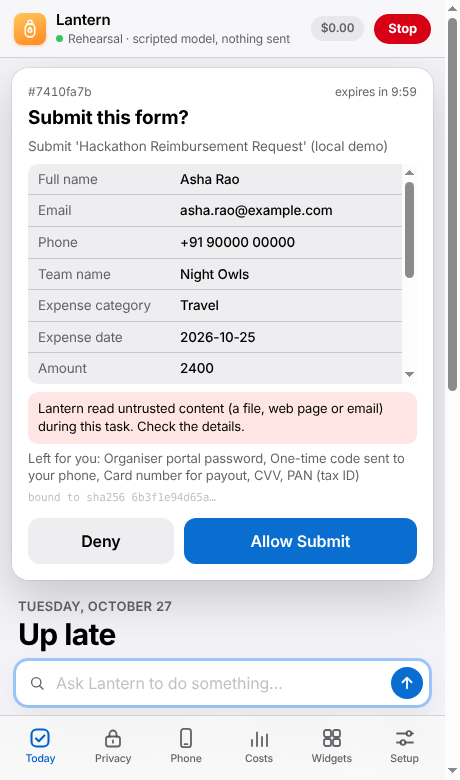
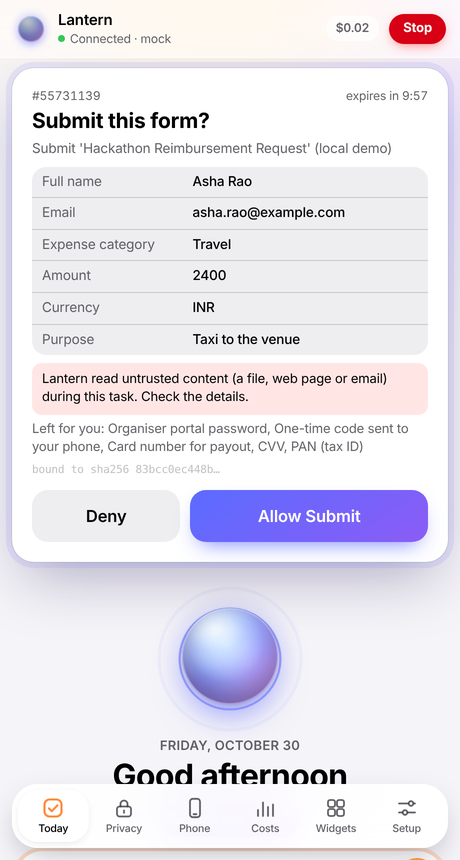
Desktop: the panel opens on Lantern's live orb, with a glass, calmer look
Today shows the large orb, the greeting and a line under it saying what Lantern is doing right
now; the toolbar mark is a small live orb. Glass cards and ask field, rounded numbers, a
floating tab bar, a clearer approval card. Orb styles are shared (renderer/orb.css) and built
with DOM calls (no innerHTML). Light and dark; screenshots updated.

Claude-Session: https://claude.ai/code/session_01KeASn7FfptgKrH1e6GmtJU

diff --git a/desktop/renderer/panel.css b/desktop/renderer/panel.css
@@ -364,3 +364,87 @@ kbd { font: 600 12px var(--font); color: var(--label-2); padding: 3px 8px; borde
 .decoy-pair figure { margin: 0; background: var(--card); }
 .decoy-pair img { display: block; width: 100%; height: auto; }
 .decoy-pair figcaption { padding: 6px 10px; font-size: 12.5px; color: var(--label-2); }
+
+/* ==== Lantern 2: the orb at the centre, glass, light and calm =====================================
+   One idea per screen; Lantern itself (the orb) is the place you look to know what is happening, with a
+   line under it saying what it's doing. Materials are translucent; corners are generous; numbers are rounded. */
+:root { --round: ui-rounded, "SF Pro Rounded", var(--font); --r-lg: 22px; --r-md: 16px;
+        --wash: radial-gradient(120% 60% at 50% -10%, #fff1dc 0%, rgba(255, 241, 220, 0) 60%),
+                radial-gradient(80% 50% at 100% 10%, #efe7ff 0%, rgba(239, 231, 255, 0) 60%), #f5f4f8;
+        --glass: rgba(255, 255, 255, .62); --glass-edge: rgba(255, 255, 255, .7);
+        --lift: 0 1px 1px rgba(30, 20, 60, .04), 0 10px 30px -8px rgba(30, 20, 60, .14); }
+@media (prefers-color-scheme: dark) {
+  :root { --wash: radial-gradient(120% 60% at 50% -10%, #3a2412 0%, rgba(58, 36, 18, 0) 60%),
+                  radial-gradient(80% 50% at 100% 10%, #241a3d 0%, rgba(36, 26, 61, 0) 60%), #0b0a10;
+          --glass: rgba(40, 38, 48, .6); --glass-edge: rgba(255, 255, 255, .08);
+          --lift: 0 0 0 .5px rgba(255, 255, 255, .07), 0 14px 34px -10px rgba(0, 0, 0, .6); }
+}
+html, body { background: var(--wash); background-attachment: fixed; }
+body { padding-bottom: 104px; }
+
+/* toolbar: glass, with Lantern's small orb as its mark */
+.toolbar { background: color-mix(in srgb, var(--glass) 90%, transparent); border-bottom: .5px solid var(--glass-edge);
+           backdrop-filter: saturate(180%) blur(24px); -webkit-backdrop-filter: saturate(180%) blur(24px); }
+.sprite.mini { --size: 26px; width: 34px; height: 34px; cursor: default; }
+.sprite.mini:hover, .sprite.mini:active { transform: none; }
+.sprite.mini .halo { filter: blur(3px); }
+.sprite.mini .flow { filter: blur(4px) saturate(1.3); }
+.sprite.mini .ring, .sprite.mini .sat { display: none; }
+.sprite.mini .sphere { box-shadow: 0 4px 10px -3px color-mix(in srgb, var(--glow) 80%, transparent); animation: none; }
+.capsule { background: var(--glass); box-shadow: inset 0 0 0 .5px var(--glass-edge); }
+.stop { box-shadow: 0 4px 12px -4px color-mix(in srgb, var(--red) 70%, transparent); }
+
+/* Today: Lantern in the middle, a greeting, and a line under it saying what it's doing right now */
+.hero-lantern { display: flex; flex-direction: column; align-items: center; text-align: center; padding: 22px 0 14px; }
+.sprite.hero-orb { --size: 96px; width: 170px; height: 150px; margin-bottom: 2px; cursor: default; }
+.sprite.hero-orb:hover, .sprite.hero-orb:active { transform: none; }
+.sprite.hero-orb .sat { --orbit: 62px; }
+.hero-lantern .eyebrow { margin-top: 2px; }
+.hero-lantern h1 { margin: 0; font: 700 32px/1.1 var(--round); letter-spacing: -.02em; }
+.hero-status { margin: 10px 0 0; max-width: 92%; padding: 7px 14px; border-radius: 99px; font-size: 14px; font-weight: 500;
+               color: var(--label-2); background: var(--glass); box-shadow: inset 0 0 0 .5px var(--glass-edge), var(--lift);
+               white-space: nowrap; overflow: hidden; text-overflow: ellipsis; transition: color .3s; }
+.hero-status[data-mode="working"], .hero-status[data-mode="retry"] { color: var(--label); }
+.hero-status[data-mode="working"]::before { content: ""; display: inline-block; width: 7px; height: 7px; margin-right: 8px; vertical-align: 1px;
+               border-radius: 50%; background: var(--orange); animation: blink 1.2s ease-in-out infinite; }
+.hero-status[data-mode="approval"] { color: #fff; background: linear-gradient(135deg, #6d7bff, #a86bff); }
+.hero-status[data-mode="done"] { color: var(--green-text); }
+.hero-status[data-mode="failed"], .hero-status[data-mode="stopped"] { color: var(--red-text); }
+@keyframes blink { 50% { opacity: .25; } }
+
+/* the ask field: the one big thing to type into */
+.ask { height: 54px; border-radius: 27px; padding: 0 7px 0 18px; background: var(--glass);
+       box-shadow: inset 0 0 0 .5px var(--glass-edge), var(--lift); backdrop-filter: blur(20px); -webkit-backdrop-filter: blur(20px); }
+.ask:focus-within { background: var(--card); box-shadow: 0 0 0 4px color-mix(in srgb, #ff9f43 28%, transparent), var(--lift); }
+.ask input { font-size: 16.5px; }
+.send { width: 40px; height: 40px; background: linear-gradient(145deg, #ffb347, #ff6b5a); box-shadow: 0 6px 14px -6px rgba(255, 107, 90, .9); }
+.chip-s { background: var(--glass); box-shadow: inset 0 0 0 .5px var(--glass-edge), 0 1px 2px rgba(0, 0, 0, .04); }
+
+/* at a glance: rounded numbers in soft cards */
+.glance { gap: 12px; margin-top: 16px; }
+.tile { border-radius: var(--r-md); background: var(--glass); box-shadow: inset 0 0 0 .5px var(--glass-edge), var(--lift); padding: 14px 16px; }
+.tile .t-value { font: 700 30px/1.15 var(--round); letter-spacing: -.02em; }
+.tile .t-label::before { width: 9px; height: 9px; box-shadow: 0 0 8px currentColor; }
+
+/* cards and groups */
+.group, .task, .interrupted { border-radius: var(--r-md); background: var(--glass); box-shadow: inset 0 0 0 .5px var(--glass-edge), var(--lift);
+                              backdrop-filter: blur(18px); -webkit-backdrop-filter: blur(18px); }
+.large-title h1 { font-family: var(--round); font-size: 32px; }
+.task .reply { border-radius: 18px 18px 18px 6px; background: color-mix(in srgb, #ffb347 12%, var(--card)); }
+
+/* approvals: a clear decision, never a banner to click away */
+.approval { border-radius: var(--r-lg); padding: 20px; background: var(--card);
+            box-shadow: 0 0 0 .5px var(--separator), 0 0 0 6px color-mix(in srgb, #7c83ff 14%, transparent), 0 24px 60px -12px rgba(40, 30, 90, .35); }
+.approval h3 { font: 700 21px/1.2 var(--round); }
+.approval .fields { border-radius: 14px; }
+.approval .deny, .approval .allow { height: 52px; border-radius: 16px; font-size: 16.5px; }
+.approval .allow { background: linear-gradient(145deg, #5b6cff, #8b5cf6); box-shadow: 0 10px 22px -10px rgba(91, 108, 255, .9); }
+
+/* the tab bar floats: a glass capsule above the window's bottom edge */
+.tabs { left: 12px; right: 12px; bottom: 12px; padding: 6px; border-radius: 26px; border: 0;
+        background: color-mix(in srgb, var(--card) 92%, transparent); box-shadow: inset 0 0 0 .5px var(--glass-edge), 0 12px 32px -10px rgba(20, 10, 40, .35);
+        backdrop-filter: saturate(180%) blur(26px); -webkit-backdrop-filter: saturate(180%) blur(26px); }
+.tabs button { border-radius: 20px; padding: 6px 0; transition: background .25s var(--spring), color .25s; }
+.tabs button.on { color: var(--label); background: color-mix(in srgb, var(--card) 85%, transparent); box-shadow: 0 2px 8px -2px rgba(0, 0, 0, .12); }
+.tabs button.on .ico { color: #ff8a3d; }
+.toast { bottom: 100px; }

diff --git a/desktop/renderer/avatar.css b/desktop/renderer/avatar.css
@@ -3,84 +3,6 @@ body { font: 13px/1.35 -apple-system, BlinkMacSystemFont, "SF Pro Text", "Segoe 
        -webkit-font-smoothing: antialiased; letter-spacing: -.01em; }
 .stage { position: absolute; inset: 0; display: flex; flex-direction: column; align-items: center; justify-content: flex-end; padding-bottom: 8px; gap: 10px; }
 
-/* ---- the orb ----
-   A glass sphere with three lights drifting inside it. Colour and speed follow Lantern's state (lib/sprite.js
-   sets --a/--b/--c/--glow/--spin); @property lets the colours glide from one state to the next. */
-@property --a { syntax: '<color>'; inherits: true; initial-value: #ffd479; }
-@property --b { syntax: '<color>'; inherits: true; initial-value: #ff9f43; }
-@property --c { syntax: '<color>'; inherits: true; initial-value: #ff6b6b; }
-@property --glow { syntax: '<color>'; inherits: true; initial-value: #ffb347; }
-
-.sprite { --size: 104px; position: relative; width: 150px; height: 150px; flex: none; cursor: pointer;
-          display: grid; place-items: center; outline: none;
-          transition: --a .9s ease, --b .9s ease, --c .9s ease, --glow .9s ease, transform .35s cubic-bezier(.32, 1.4, .5, 1); }
-.sprite:hover { transform: scale(1.05); }
-.sprite:active { transform: scale(.96); }
-.sprite:focus-visible .sphere { box-shadow: 0 0 0 3px #fff, 0 0 0 6px var(--b); }
-
-.sprite .halo { position: absolute; width: calc(var(--size) * 1.55); height: calc(var(--size) * 1.55); border-radius: 50%;
-  background: radial-gradient(circle, color-mix(in srgb, var(--glow) 55%, transparent) 0%, transparent 62%);
-  filter: blur(6px); animation: breathe 5s ease-in-out infinite; pointer-events: none; }
-
-.sprite .sphere { position: relative; width: var(--size); height: var(--size); border-radius: 50%; overflow: hidden;
-  isolation: isolate; animation: float 6s ease-in-out infinite;
-  background: radial-gradient(circle at 50% 72%, var(--b) 0%, color-mix(in srgb, var(--c) 78%, #2a1240) 100%);
-  box-shadow: 0 18px 36px -10px color-mix(in srgb, var(--glow) 70%, transparent),
-              0 2px 6px rgba(0, 0, 0, .18); }
-
-/* the light inside: three soft blobs on slow, different orbits, added together like light */
-.sprite .flow { position: absolute; inset: -30%; border-radius: 50%; mix-blend-mode: screen; filter: blur(13px) saturate(1.3); }
-.sprite .f1 { background: radial-gradient(circle at 30% 35%, var(--a) 0%, transparent 42%);
-              animation: swirl var(--spin) linear infinite; }
-.sprite .f2 { background: radial-gradient(circle at 68% 60%, var(--b) 0%, transparent 46%);
-              animation: swirl calc(var(--spin) * .72) linear infinite reverse; }
-.sprite .f3 { background: radial-gradient(circle at 45% 78%, var(--c) 0%, transparent 40%);
-              animation: swirl calc(var(--spin) * 1.35) linear infinite; opacity: .9; }
-
-/* the glass: a bright highlight top-left, a darker rim at the bottom, a hairline edge */
-.sprite .sheen { position: absolute; inset: 0; border-radius: 50%; pointer-events: none;
-  background: radial-gradient(ellipse 46% 34% at 34% 22%, rgba(255, 255, 255, .78) 0%, rgba(255, 255, 255, .12) 55%, transparent 72%),
-              radial-gradient(circle at 50% 120%, rgba(255, 255, 255, .28) 0%, transparent 45%);
-  box-shadow: inset 0 0 0 1px rgba(255, 255, 255, .35), inset 0 -14px 26px rgba(10, 4, 24, .38),
-              inset 0 8px 18px rgba(255, 255, 255, .22); }
-
-/* rings: a calm pulse while Lantern waits for your OK, a burst when a task is done and checked */
-.sprite .ring { position: absolute; width: var(--size); height: var(--size); border-radius: 50%; pointer-events: none;
-  border: 2px solid var(--b); opacity: 0; }
-.sprite.needs-approval .ring { animation: pulse 2.2s cubic-bezier(.2, .7, .3, 1) infinite; }
-.sprite.needs-approval .ring.r2 { animation-delay: 1.1s; }
-.sprite.celebrating .ring { animation: burst 1.1s cubic-bezier(.2, .7, .3, 1) 2; }
-.sprite.celebrating .ring.r2 { animation-delay: .25s; }
-
-/* more than one task in flight: small lights orbit the sphere */
-.sprite .sat { position: absolute; width: 9px; height: 9px; border-radius: 50%; opacity: 0; pointer-events: none;
-  background: radial-gradient(circle at 35% 35%, #fff, var(--a) 60%); box-shadow: 0 0 10px var(--glow);
-  transition: opacity .5s; }
-.sprite.juggling .sat { opacity: 1; animation: orbit 2.4s linear infinite; }
-.sprite.juggling .s2 { animation-delay: -.8s; }
-.sprite.juggling .s3 { animation-delay: -1.6s; }
-
-/* per-state motion on top of the colours */
-.sprite.thinking .sphere, .sprite.juggling .sphere { animation: float 6s ease-in-out infinite, think 1.6s ease-in-out infinite; }
-.sprite.thinking .halo, .sprite.juggling .halo { animation-duration: 1.6s; }
-.sprite.celebrating .sphere { animation: hop .7s cubic-bezier(.32, 1.4, .5, 1) 2, float 6s ease-in-out 1.4s infinite; }
-.sprite.annoyed .sphere { animation: shake .4s ease-in-out 2, float 6s ease-in-out .8s infinite; }
-.sprite.smug .sheen { animation: glint 2.8s ease-in-out 1; }
-.sprite.sleeping { filter: saturate(.55) brightness(.92); }
-.sprite.sleeping .halo { animation-duration: 9s; opacity: .55; }
-.sprite.sleeping .sphere { animation-duration: 10s; }
-
-@keyframes swirl { to { transform: rotate(360deg); } }
-@keyframes float { 0%, 100% { transform: translateY(0); } 50% { transform: translateY(-5px); } }
-@keyframes breathe { 0%, 100% { transform: scale(.92); opacity: .75; } 50% { transform: scale(1.06); opacity: 1; } }
-@keyframes think { 0%, 100% { scale: 1; } 50% { scale: 1.035; } }
-@keyframes pulse { 0% { transform: scale(1); opacity: .75; } 100% { transform: scale(1.55); opacity: 0; } }
-@keyframes burst { 0% { transform: scale(1); opacity: .95; border-width: 3px; } 100% { transform: scale(1.8); opacity: 0; border-width: 1px; } }
-@keyframes orbit { from { transform: rotate(0deg) translateX(66px) rotate(0deg); } to { transform: rotate(360deg) translateX(66px) rotate(-360deg); } }
-@keyframes hop { 0%, 100% { transform: translateY(0) scale(1); } 35% { transform: translateY(-16px) scale(1.04, .97); } 60% { transform: translateY(0) scale(.97, 1.03); } }
-@keyframes shake { 0%, 100% { transform: translateX(0); } 25% { transform: translateX(-6px); } 75% { transform: translateX(6px); } }
-@keyframes glint { 0%, 100% { filter: brightness(1); } 40% { filter: brightness(1.5); } }
-
 /* ---- the live activity island ---- */
 .island {
   --spring: cubic-bezier(.32, 1.4, .5, 1);

diff --git a/desktop/renderer/orb.css b/desktop/renderer/orb.css
@@ -1,0 +1,82 @@
+/* Lantern's orb, shared by the avatar window and the panel. Markup and palettes: lib/sprite.js. */
+/* ---- the orb ----
+   A glass sphere with three lights drifting inside it. Colour and speed follow Lantern's state (lib/sprite.js
+   sets --a/--b/--c/--glow/--spin); @property lets the colours glide from one state to the next. */
+@property --a { syntax: '<color>'; inherits: true; initial-value: #ffd479; }
+@property --b { syntax: '<color>'; inherits: true; initial-value: #ff9f43; }
+@property --c { syntax: '<color>'; inherits: true; initial-value: #ff6b6b; }
+@property --glow { syntax: '<color>'; inherits: true; initial-value: #ffb347; }
+
+.sprite { --size: 104px; position: relative; width: 150px; height: 150px; flex: none; cursor: pointer;
+          display: grid; place-items: center; outline: none;
+          transition: --a .9s ease, --b .9s ease, --c .9s ease, --glow .9s ease, transform .35s cubic-bezier(.32, 1.4, .5, 1); }
+.sprite:hover { transform: scale(1.05); }
+.sprite:active { transform: scale(.96); }
+.sprite:focus-visible .sphere { box-shadow: 0 0 0 3px #fff, 0 0 0 6px var(--b); }
+
+.sprite .halo { position: absolute; width: calc(var(--size) * 1.55); height: calc(var(--size) * 1.55); border-radius: 50%;
+  background: radial-gradient(circle, color-mix(in srgb, var(--glow) 55%, transparent) 0%, transparent 62%);
+  filter: blur(6px); animation: breathe 5s ease-in-out infinite; pointer-events: none; }
+
+.sprite .sphere { position: relative; width: var(--size); height: var(--size); border-radius: 50%; overflow: hidden;
+  isolation: isolate; animation: float 6s ease-in-out infinite;
+  background: radial-gradient(circle at 46% 38%, var(--a) 0%, var(--b) 48%, color-mix(in srgb, var(--c) 88%, #3d1650) 100%);
+  box-shadow: 0 18px 36px -10px color-mix(in srgb, var(--glow) 70%, transparent),
+              0 2px 6px rgba(0, 0, 0, .18); }
+
+/* the light inside: three soft blobs on slow, different orbits, added together like light */
+.sprite .flow { position: absolute; inset: -30%; border-radius: 50%; mix-blend-mode: screen; filter: blur(13px) saturate(1.3); }
+.sprite .f1 { background: radial-gradient(circle at 30% 35%, var(--a) 0%, transparent 42%);
+              animation: swirl var(--spin) linear infinite; }
+.sprite .f2 { background: radial-gradient(circle at 68% 60%, var(--b) 0%, transparent 46%);
+              animation: swirl calc(var(--spin) * .72) linear infinite reverse; }
+.sprite .f3 { background: radial-gradient(circle at 45% 78%, var(--c) 0%, transparent 40%);
+              animation: swirl calc(var(--spin) * 1.35) linear infinite; opacity: .9; }
+
+/* the glass: a bright highlight top-left, a darker rim at the bottom, a hairline edge */
+.sprite .sheen { position: absolute; inset: 0; border-radius: 50%; pointer-events: none;
+  background: radial-gradient(ellipse 46% 34% at 34% 22%, rgba(255, 255, 255, .78) 0%, rgba(255, 255, 255, .12) 55%, transparent 72%),
+              radial-gradient(circle at 50% 120%, rgba(255, 255, 255, .28) 0%, transparent 45%);
+  box-shadow: inset 0 0 0 1px rgba(255, 255, 255, .35), inset 0 -14px 26px rgba(10, 4, 24, .38),
+              inset 0 8px 18px rgba(255, 255, 255, .22); }
+
+/* rings: a calm pulse while Lantern waits for your OK, a burst when a task is done and checked */
+.sprite .ring { position: absolute; width: var(--size); height: var(--size); border-radius: 50%; pointer-events: none;
+  border: 2px solid var(--b); opacity: 0; }
+.sprite.needs-approval .ring { animation: pulse 2.2s cubic-bezier(.2, .7, .3, 1) infinite; }
+.sprite.needs-approval .ring.r2 { animation-delay: 1.1s; }
+.sprite.celebrating .ring { animation: burst 1.1s cubic-bezier(.2, .7, .3, 1) 2; }
+.sprite.celebrating .ring.r2 { animation-delay: .25s; }
+
+/* more than one task in flight: small lights orbit the sphere */
+.sprite .sat { position: absolute; width: 9px; height: 9px; border-radius: 50%; opacity: 0; pointer-events: none;
+  background: radial-gradient(circle at 35% 35%, #fff, var(--a) 60%); box-shadow: 0 0 10px var(--glow);
+  transition: opacity .5s; }
+.sprite.juggling .sat { opacity: 1; animation: orbit 2.4s linear infinite; }
+.sprite.juggling .s2 { animation-delay: -.8s; }
+.sprite.juggling .s3 { animation-delay: -1.6s; }
+
+/* per-state motion on top of the colours */
+.sprite.thinking .sphere, .sprite.juggling .sphere { animation: float 6s ease-in-out infinite, think 1.6s ease-in-out infinite; }
+.sprite.thinking .halo, .sprite.juggling .halo { animation-duration: 1.6s; }
+.sprite.celebrating .sphere { animation: hop .7s cubic-bezier(.32, 1.4, .5, 1) 2, float 6s ease-in-out 1.4s infinite; }
+.sprite.annoyed .sphere { animation: shake .4s ease-in-out 2, float 6s ease-in-out .8s infinite; }
+.sprite.smug .sheen { animation: glint 2.8s ease-in-out 1; }
+.sprite.sleeping { filter: saturate(.55) brightness(.92); }
+.sprite.sleeping .halo { animation-duration: 9s; opacity: .55; }
+.sprite.sleeping .sphere { animation-duration: 10s; }
+
+@keyframes swirl { to { transform: rotate(360deg); } }
+@keyframes float { 0%, 100% { transform: translateY(0); } 50% { transform: translateY(-5px); } }
+@keyframes breathe { 0%, 100% { transform: scale(.92); opacity: .75; } 50% { transform: scale(1.06); opacity: 1; } }
+@keyframes think { 0%, 100% { scale: 1; } 50% { scale: 1.035; } }
+@keyframes pulse { 0% { transform: scale(1); opacity: .75; } 100% { transform: scale(1.55); opacity: 0; } }
+@keyframes burst { 0% { transform: scale(1); opacity: .95; border-width: 3px; } 100% { transform: scale(1.8); opacity: 0; border-width: 1px; } }
+@keyframes orbit { from { transform: rotate(0deg) translateX(var(--orbit, 66px)) rotate(0deg); } to { transform: rotate(360deg) translateX(var(--orbit, 66px)) rotate(-360deg); } }
+@keyframes hop { 0%, 100% { transform: translateY(0) scale(1); } 35% { transform: translateY(-16px) scale(1.04, .97); } 60% { transform: translateY(0) scale(.97, 1.03); } }
+@keyframes shake { 0%, 100% { transform: translateX(0); } 25% { transform: translateX(-6px); } 75% { transform: translateX(6px); } }
+@keyframes glint { 0%, 100% { filter: brightness(1); } 40% { filter: brightness(1.5); } }
+
+@media (prefers-reduced-motion: reduce) {
+  .sprite *, .sprite { animation: none !important; transition: none !important; }
+}

diff --git a/desktop/renderer/panel.js b/desktop/renderer/panel.js
@@ -8,11 +8,27 @@
   let health = {};
   const now = () => Date.now() / 1000;
 
-  // Lantern's Muse-made face in the header, when the avatar sheet exists.
-  const face = ((window.LanternAvatarManifest || {}).expressions || {}).idle;
-  if (face && /\.(webp|png)$/.test(face.file)) {
-    const img = h('img', { src: `../assets/avatar/${face.file}`, alt: 'Lantern' });
-    $('mark').replaceChildren(img);
+  // Lantern's orb: small in the toolbar, large on Today, both following what Lantern is doing. Under the large
+  // one, a line says what it's working on right now.
+  const orbs = [$('mark'), $('hero-orb')];
+  for (const o of orbs) LanternSprite.build(o);
+  let orbShown = '';
+  function renderOrb() {
+    const t = now();
+    const face = LanternExpression.pick(state, t);
+    if (face !== orbShown) {
+      orbShown = face;
+      for (const o of orbs) {
+        o.className = o.className.replace(/\b(idle|thinking|juggling|smug|celebrating|needs-approval|annoyed|sleeping)\b/g, '').trim() + ' ' + face;
+        o.setAttribute('style', LanternSprite.style(face));
+      }
+      $('hero-orb').setAttribute('aria-label', LanternSprite.LABELS[face] || 'Lantern');
+    }
+    const a = LanternActivity.activity(state, t);
+    const line = a.mode === 'idle' ? (face === 'sleeping' ? 'Resting. Ask me anything.' : 'Ready when you are.')
+      : a.mode === 'working' ? `${a.text}${a.badge ? ' · ' + a.badge : ''}` : a.text;
+    if ($('hero-status').textContent !== line) $('hero-status').textContent = line;
+    $('hero-status').dataset.mode = a.mode;
   }
 
   function h(tag, props, ...children) {
@@ -799,6 +815,7 @@
 
   // ---- live events -------------------------------------------------------------------------------------------
   function renderAll() {
+    renderOrb();
     renderApprovals();
     renderQuestions();
     renderTasks();
@@ -845,6 +862,7 @@
 
   window.lantern.onStopped(() => { state = LanternState.reduce(state, { type: 'stopped', ts: now() }); renderAll(); });
   setInterval(renderApprovals, 1000);   // countdowns
+  setInterval(renderOrb, 1000);          // done → ready, ready → resting
   setInterval(() => { if (tab === 'phone') loadPhone(); }, 3000);
   renderAll();
 })();

diff --git a/desktop/renderer/panel.html b/desktop/renderer/panel.html
@@ -6,6 +6,7 @@
       content="default-src 'self'; script-src 'self'; style-src 'self' 'unsafe-inline'; img-src 'self' data:; connect-src http://127.0.0.1:* ws://127.0.0.1:*; frame-src 'self'">
 <meta name="color-scheme" content="light dark">
 <title>Lantern</title>
+<link rel="stylesheet" href="orb.css">
 <link rel="stylesheet" href="panel.css">
 </head>
 <body>
@@ -27,7 +28,7 @@
   </svg>
 
   <header class="toolbar">
-    <div class="app-icon" id="mark" aria-hidden="true"><svg class="ico"><use href="#i-lantern"/></svg></div>
+    <div class="sprite mini idle" id="mark" aria-hidden="true"></div>
     <div class="title-block">
       <div class="app-name">Lantern</div>
       <div class="status" id="conn">connecting…</div>
@@ -43,9 +44,11 @@
 
   <main>
     <section data-panel="tasks" class="on" aria-label="Today">
-      <div class="large-title">
+      <div class="hero-lantern">
+        <div class="sprite hero-orb idle" id="hero-orb" role="img" aria-label="Lantern is ready"></div>
         <p class="eyebrow" id="today-date"></p>
         <h1 id="today-greeting">Today</h1>
+        <p class="hero-status" id="hero-status" aria-live="polite">Ready when you are.</p>
       </div>
       <form id="ask" class="ask">
         <svg class="ico lead" aria-hidden="true"><use href="#i-search"/></svg>
@@ -226,9 +229,11 @@
 
   <div id="toast" class="toast" role="status" hidden></div>
 
-  <script src="../assets/avatar/manifest.js"></script>
   <script src="lib/state.js"></script>
   <script src="lib/cards.js"></script>
+  <script src="lib/sprite.js"></script>
+  <script src="lib/expression.js"></script>
+  <script src="lib/activity.js"></script>
   <script src="lib/audit.js"></script>
   <script src="lib/widgets.js"></script>
   <script src="lib/api.js"></script>

diff --git a/desktop/renderer/lib/sprite.js b/desktop/renderer/lib/sprite.js
@@ -48,5 +48,16 @@
       + '<i class="sat s1"></i><i class="sat s2"></i><i class="sat s3"></i>';
   }
 
-  return { PALETTES, LABELS, palette, style, markup };
+  /** Build the orb inside `el` with DOM calls (no HTML parsing): the same structure as markup(). */
+  function build(el) {
+    const doc = el.ownerDocument;
+    const div = (cls) => { const d = doc.createElement('div'); d.className = cls; return d; };
+    const sphere = div('sphere');
+    sphere.append(div('flow f1'), div('flow f2'), div('flow f3'), div('sheen'));
+    const sats = ['s1', 's2', 's3'].map((s) => { const i = doc.createElement('i'); i.className = 'sat ' + s; return i; });
+    el.replaceChildren(div('halo'), div('ring'), div('ring r2'), sphere, ...sats);
+    return el;
+  }
+
+  return { PALETTES, LABELS, palette, style, markup, build };
 });

diff --git a/desktop/renderer/avatar.js b/desktop/renderer/avatar.js
@@ -16,7 +16,7 @@
 
   // Lantern's orb (lib/sprite.js + avatar.css): built once; a state change swaps its class and colours, and
   // the colours glide from one state to the next.
-  spriteEl.innerHTML = LanternSprite.markup();   // our own trusted markup, no text inside
+  LanternSprite.build(spriteEl);
   spriteEl.setAttribute('role', 'button');
   spriteEl.tabIndex = 0;
 

diff --git a/desktop/renderer/avatar.html b/desktop/renderer/avatar.html
@@ -6,6 +6,7 @@
       content="default-src 'self'; script-src 'self'; style-src 'self' 'unsafe-inline'; img-src 'self' data:; connect-src http://127.0.0.1:* ws://127.0.0.1:*">
 <meta name="color-scheme" content="light dark">
 <title>Lantern</title>
+<link rel="stylesheet" href="orb.css">
 <link rel="stylesheet" href="avatar.css">
 </head>
 <body>

diff --git a/BUILD_LOG.md b/BUILD_LOG.md
@@ -561,3 +561,8 @@ Ported `scripts/real_run.py` from `claude/real-run`; tasks run on the scheduler 
 - From `claude/freecad-connector` (#5): `lantern/integrations/freecad/`, `demo/freecad/`, `tests/freecad/`, `docs/FREECAD.md`, `config/mcp/freecad.example.json`. Typed CAD tools as deferred MCP tools behind tool_search; green/yellow/red tiers with zone checks and exact-file red approvals; the visual verify loop on Muse Spark; three demo tasks.
 - Merge hooks applied: `Toolbox.mcp_call` routes the `freecad` server through the connector; Core gives its toolbox one, and every scheduler task gets its own with that task's client. THIRD_PARTY lists FreeCAD (LGPL, not bundled).
 - Tests: `tests/freecad/` 59 + 1 new (Core and scheduler tasks get their connectors). Real FreeCAD is still not tested: it needs the laptop (`python demo\freecad\run_demo.py --freecad`).
+
+## Oct 30 (desktop: the orb and a calmer, glassier panel)
+- Lantern is an orb now (no face): a glass sphere with three lights drifting inside. Colour and motion follow the state (ready, working, several tasks, needs your OK, done and checked, finished, something failed, resting); colours glide between states. Shared by the avatar window and the panel (`renderer/orb.css`, `lib/sprite.js`), built with DOM calls (no HTML parsing).
+- Panel, after the "under the avatar, a line of what it's working on" idea: Today opens with the large live orb, the greeting, and a status line under it ("Clicking at… · Wonder", "Submit this form?"). The toolbar's mark is a small live orb. Glass cards and ask field, rounded numbers, a floating tab bar, a clearer approval card (big Deny / Allow, blue-violet like the orb when it waits for you). Light and dark.
+- Checked: `npm test` 41/41, `tests/test_desktop*.py`; rendered against the mock server in Chromium (screenshots in docs/screenshots). Not checked here: the Electron e2e run (Electron isn't installed in this sandbox).
